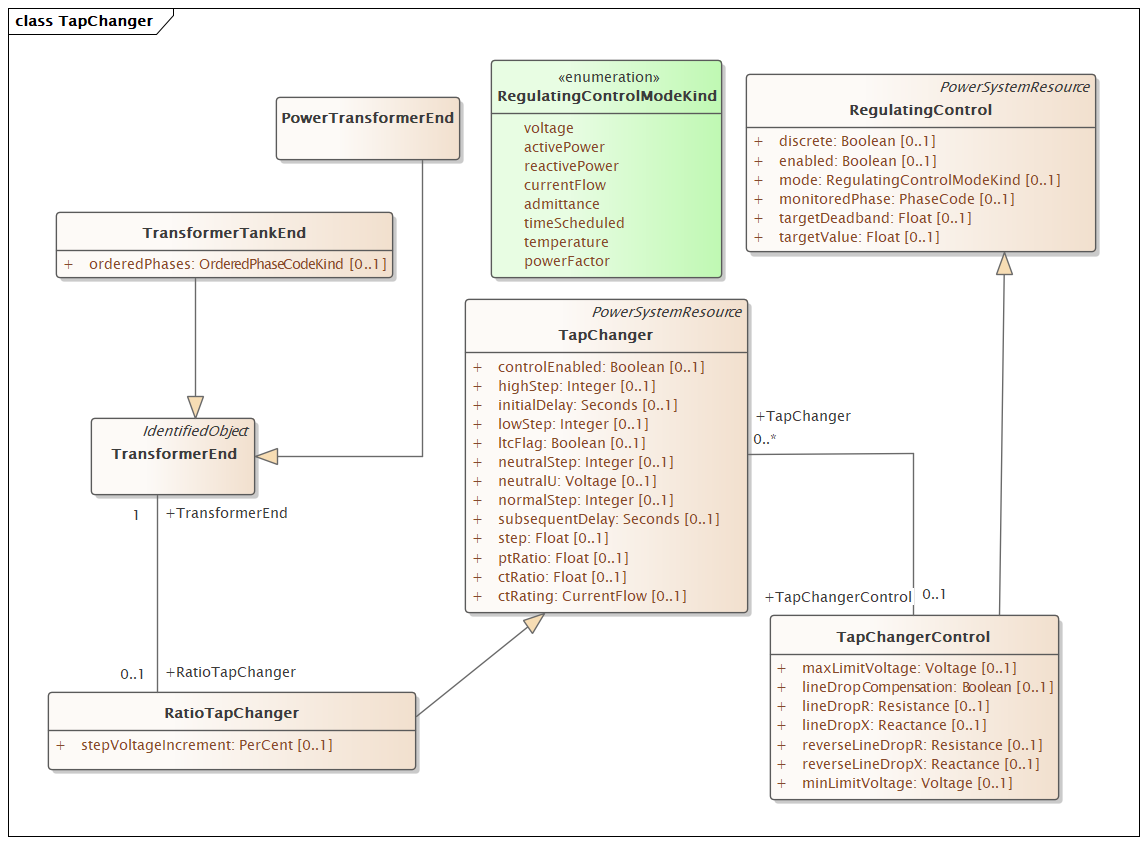
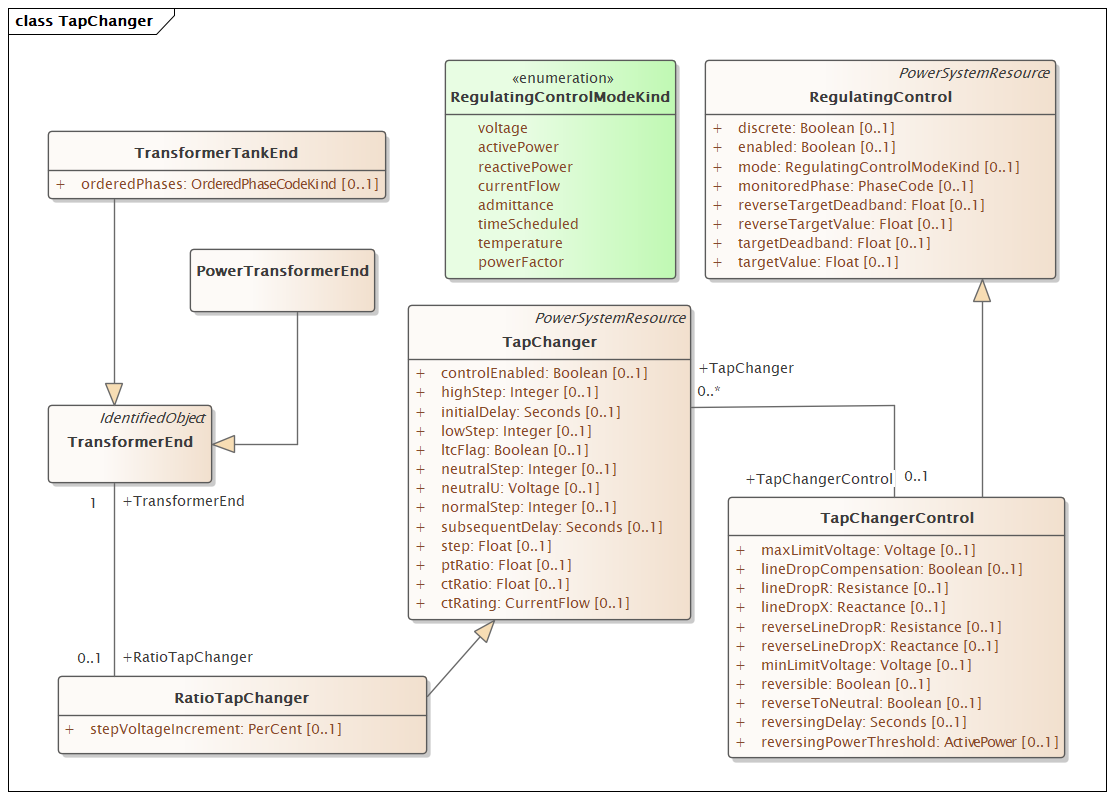
updating documentation for reverse-mode regulator attributes

diff --git a/ieee9500/README.rst b/ieee9500/README.rst
@@ -42,7 +42,7 @@ The test cases in *cases.json* are configured as decribed in
 
 1. Invoke *python3 onestep.py*. Check the new results against those below.  
    Also use *git diff* to identify any changes to the XML or UUID files.
-2. These cases use the *-m-2* export option to include files *\*edits2.dss*
+2. These cases use the *-m=2* export option to include files *\*edits2.dss*
    after the network model. An editing command in these include files sets
    the OpenDSS *vminpu* parameter to 0.88, which matches the source files.
    The default value of *vminpu* is 0.95, and non-default values are not part

diff --git a/docs/CDPSM.rst b/docs/CDPSM.rst
@@ -1094,7 +1094,7 @@ Possible CIM enhancements:
 .. |imgcim25| image:: media/cim_LineAssetInfo.png
 .. |imgcim26| image:: media/cim_LineCatalog.png
 .. |imgcim27| image:: media/cim_Loads.png
-.. |imgcim28| image:: media/cim_TapChanger.png
+.. |imgcim28| image:: media/cim_TapChangerInstance.png
 .. |imgcim29| image:: media/cim_VoltageValues.png
 .. |imgcim30| image:: media/cim_TapValues.png
 .. |imgcim31| image:: media/cim_CapacitorValues.png
